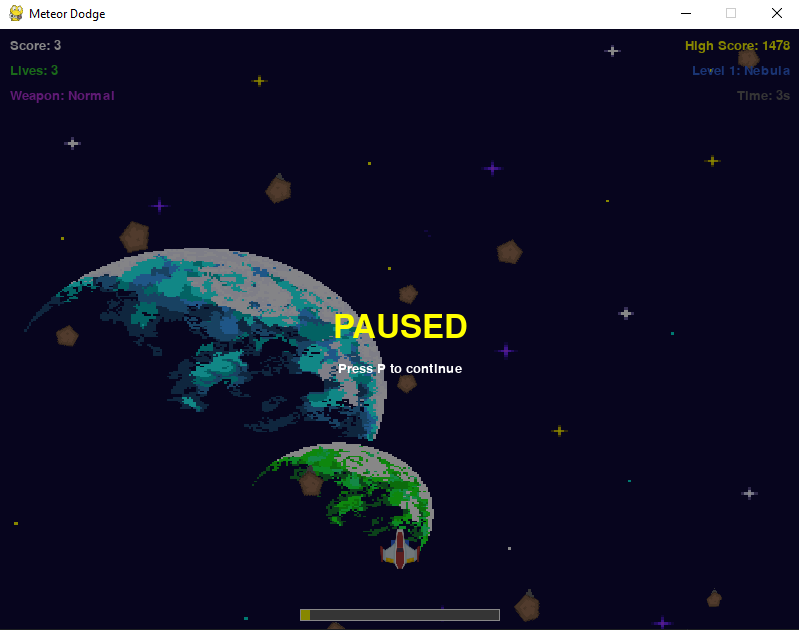
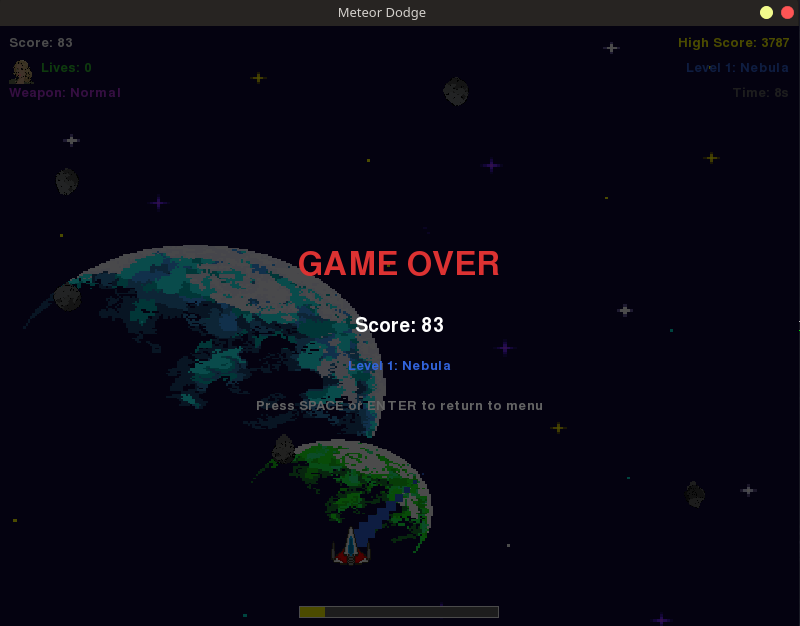
Update screenshots and add full gallery in SCREENSHOTS.md

diff --git a/SCREENSHOTS.md b/SCREENSHOTS.md
@@ -1,0 +1,93 @@
+# Screenshots
+
+Gallery of the game screens, in order of how they appear when playing.
+
+## meteor_dodge_01.png
+
+Main menu: the game title with shadow and outline, plus the character and ship selection screens. Use the arrow keys to navigate and ENTER to start.
+
+![meteor_dodge_01.png](screenshots/meteor_dodge_01.png)
+
+## meteor_dodge_02.png
+
+Pause screen during Level 1 (Nebula). A dark overlay appears with the "PAUSED" message and the hint "Press P to continue".
+
+![meteor_dodge_02.png](screenshots/meteor_dodge_02.png)
+
+## meteor_dodge_03.png
+
+Game over screen: "GAME OVER" in red with the final score, the level reached, and the hint to press SPACE or ENTER to return to the menu.
+
+![meteor_dodge_03.png](screenshots/meteor_dodge_03.png)
+
+## meteor_dodge_04.png
+
+Gameplay of Level 2 (Storm). The ship dodges and shoots falling meteors while the HUD shows score, lives, and weapon.
+
+![meteor_dodge_04.png](screenshots/meteor_dodge_04.png)
+
+## meteor_dodge_05.png
+
+Gameplay of Level 3 (Belt). The weapon is now "Spread", which fires three bullets in a fan pattern.
+
+![meteor_dodge_05.png](screenshots/meteor_dodge_05.png)
+
+## meteor_dodge_06.png
+
+Level complete notification in Level 4 (Supernova). The "LEVEL COMPLETE" message appears when the level conditions are met.
+
+![meteor_dodge_06.png](screenshots/meteor_dodge_06.png)
+
+## meteor_dodge_07.png
+
+Gameplay of Level 4 (Supernova) with its reddish background and the rapid-fire weapon.
+
+![meteor_dodge_07.png](screenshots/meteor_dodge_07.png)
+
+## meteor_dodge_08.png
+
+Gameplay of Level 5 (Warzone). This level adds enemy ships that move, dodge, and shoot back at the player.
+
+![meteor_dodge_08.png](screenshots/meteor_dodge_08.png)
+
+## meteor_dodge_09.png
+
+Pause screen during Level 4 (Supernova): the dark overlay with the "PAUSED" message over the level background.
+
+![meteor_dodge_09.png](screenshots/meteor_dodge_09.png)
+
+## meteor_dodge_10.png
+
+Level complete notification when entering Level 5 (Warzone). The "LEVEL COMPLETE / Entering: Warzone" message shows the transition to the last level.
+
+![meteor_dodge_10.png](screenshots/meteor_dodge_10.png)
+
+## meteor_dodge_11.png
+
+Gameplay of Level 5 (Warzone). The HUD shows the score, lives, and the current level.
+
+![meteor_dodge_11.png](screenshots/meteor_dodge_11.png)
+
+## meteor_dodge_12.png
+
+Gameplay of Level 5 (Warzone) with the Spread weapon and the level timer in the HUD.
+
+![meteor_dodge_12.png](screenshots/meteor_dodge_12.png)
+
+## meteor_dodge_13.png
+
+Gameplay of Level 5 (Warzone) at a higher score, dodging meteors and enemy ships.
+
+![meteor_dodge_13.png](screenshots/meteor_dodge_13.png)
+
+## meteor_dodge_14.png
+
+Gameplay of Level 5 (Warzone) with several meteors and enemy ships on screen.
+
+![meteor_dodge_14.png](screenshots/meteor_dodge_14.png)
+
+## meteor_dodge_15.png
+
+Game over screen after a long run: "GAME OVER" with the final score and the new high score reached (3685).
+
+![meteor_dodge_15.png](screenshots/meteor_dodge_15.png)

diff --git a/README.md b/README.md
@@ -198,9 +198,19 @@ The game already sends your score automatically when it ends. The JSON payload l
 
 ## Screenshots
 
-![Shooting at meteors](screenshots/meteor_dodge_01.png)
-![Game over screen](screenshots/meteor_dodge_02.png)
-![Pause button overlay](screenshots/meteor_dodge_03.png)
+Main menu where you choose your character and ship before starting:
+
+![Main menu: character and ship selection](screenshots/meteor_dodge_01.png)
+
+The "LEVEL COMPLETE" notification shown when you meet the conditions to advance to the next level:
+
+![Level complete notification](screenshots/meteor_dodge_06.png)
+
+Gameplay of Level 5 (Warzone), where enemy ships appear and shoot back at you:
+
+![Level 5: Warzone gameplay](screenshots/meteor_dodge_14.png)
+
+See [SCREENSHOTS.md](SCREENSHOTS.md) for the full gallery of all game screens.
 
 ## Project Structure
 
@@ -254,11 +264,13 @@ meteor_dodge/
 │           ├── level3.ogg
 │           ├── level4.ogg
 │           └── level5.ogg
-├── screenshots/             # Example screenshots
+├── screenshots/             # Game screenshots (see SCREENSHOTS.md)
 │   ├── meteor_dodge_01.png
-│   └── meteor_dodge_02.png
+│   ├── ...
+│   └── meteor_dodge_15.png
 ├── DOCUMENTATION.md         # Detailed code documentation (English)
 ├── INTERMEDIATE_CONCEPTS.md # Explains intermediate Python concepts used in the code
+├── SCREENSHOTS.md           # Full gallery of game screenshots
 ├── requirements.txt         # Dependencies
 ├── MeteorDodge.spec         # PyInstaller spec file (generated)
 ├── build/                   # PyInstaller build cache (can be deleted)
